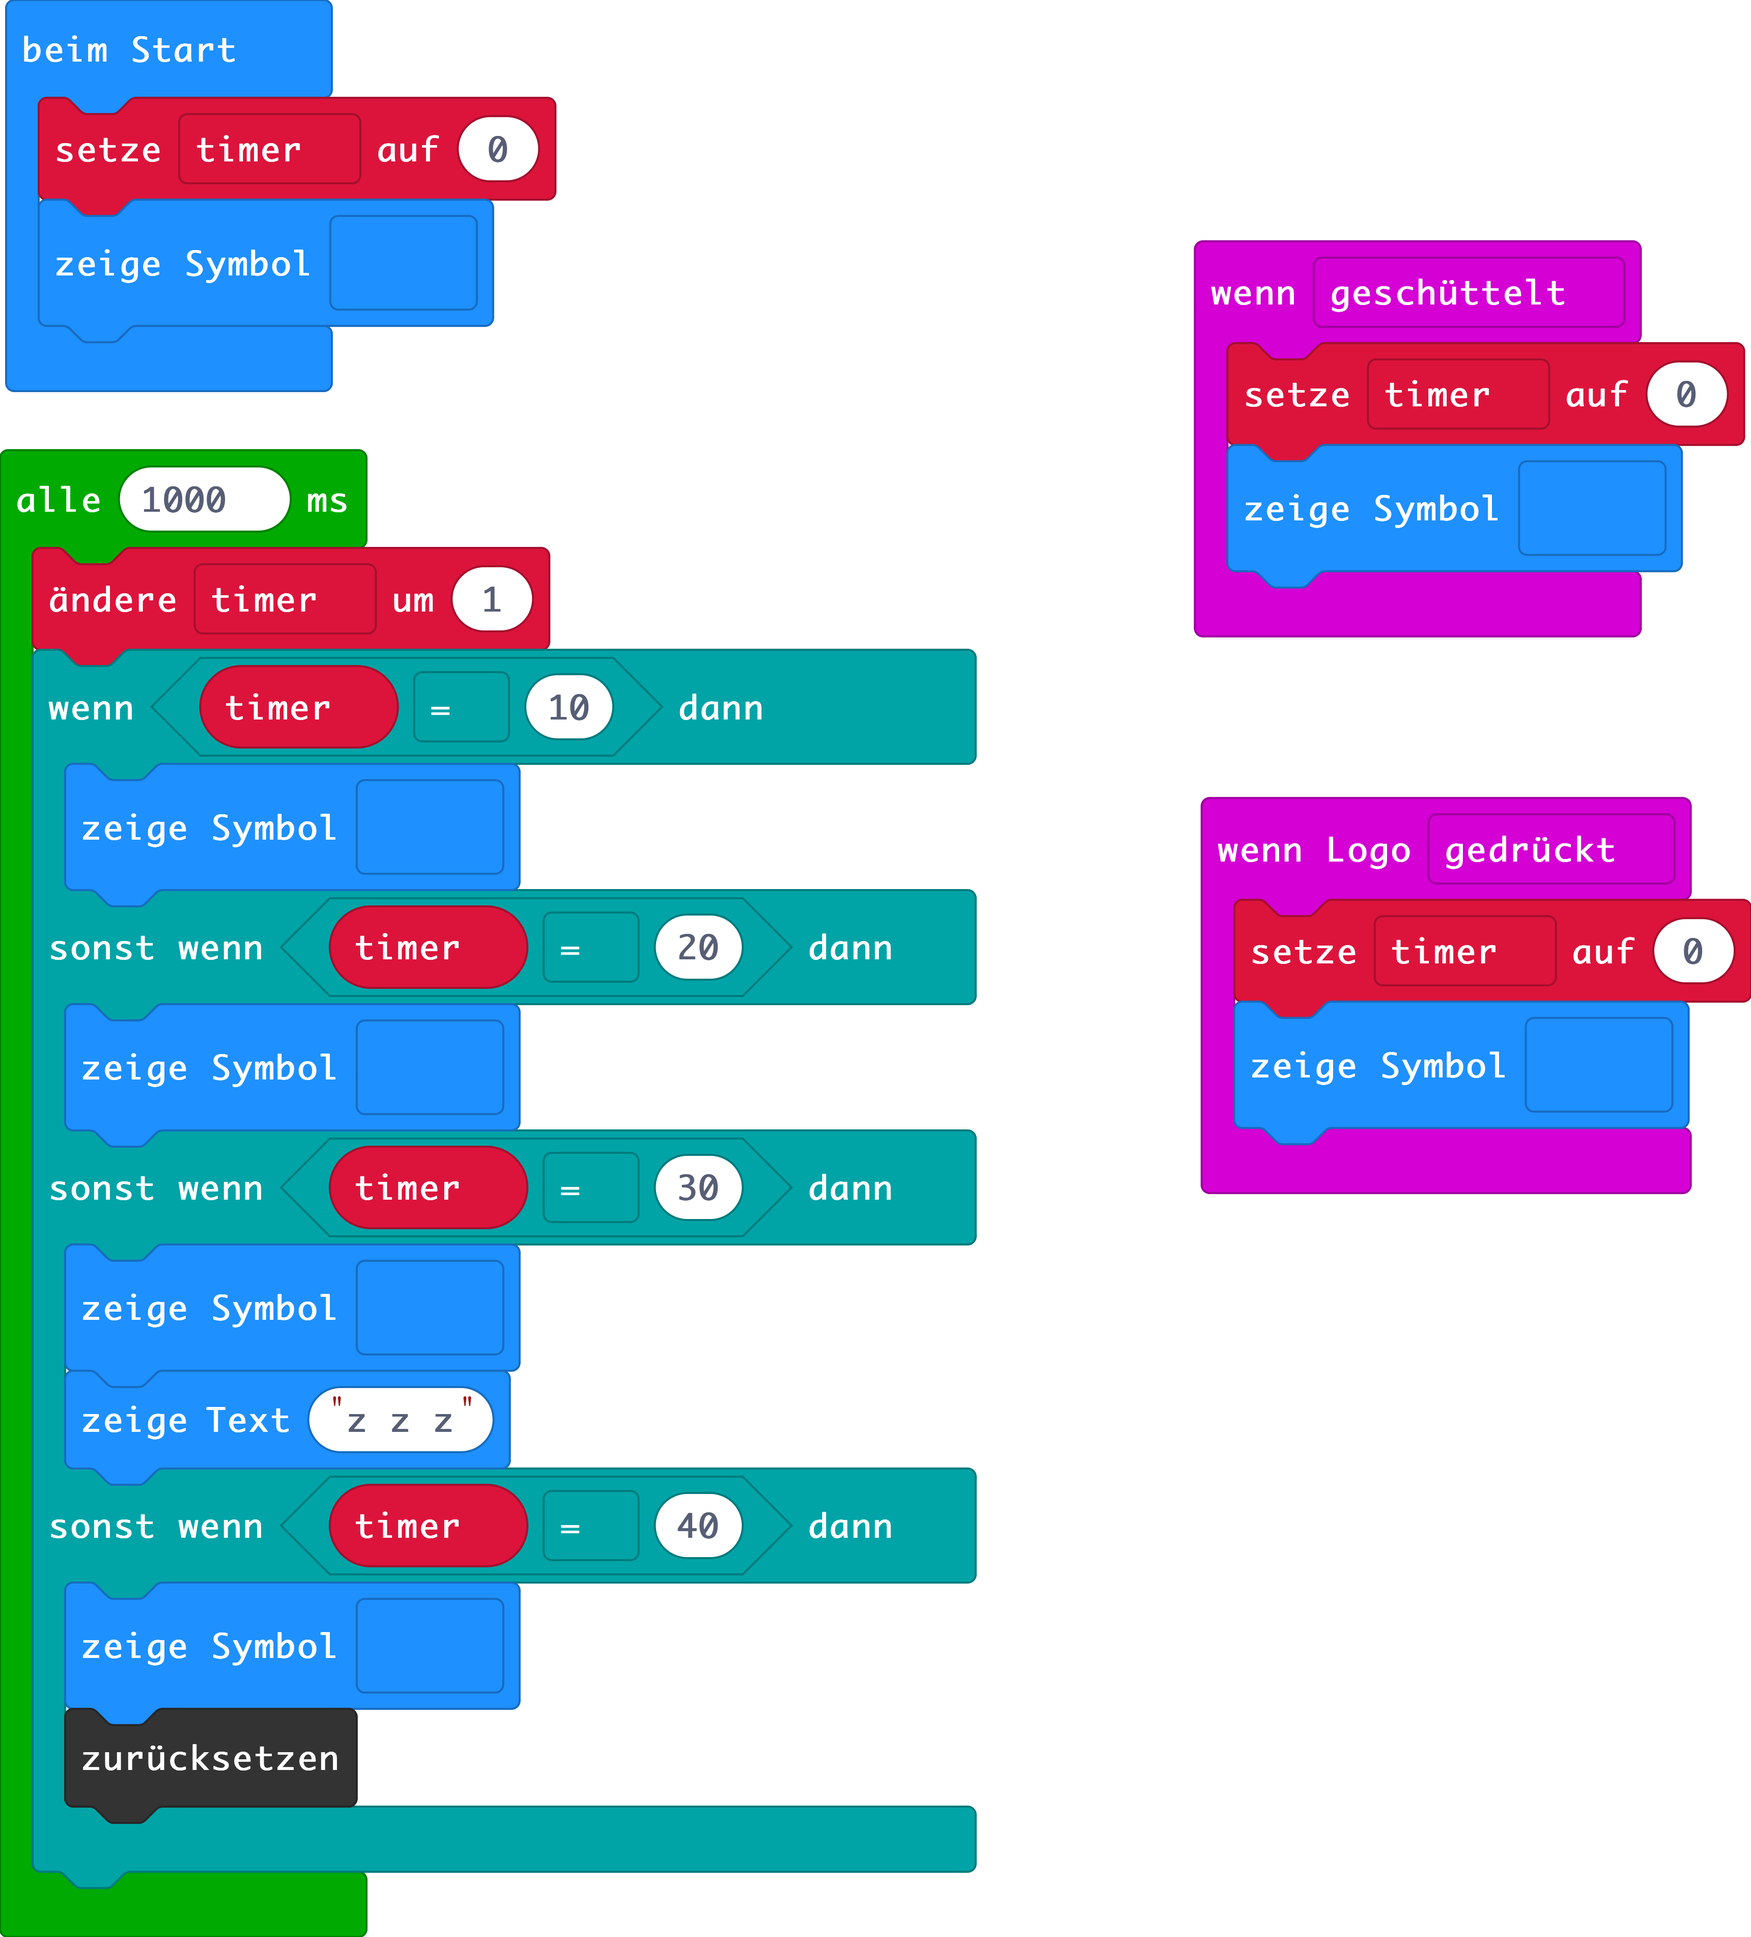
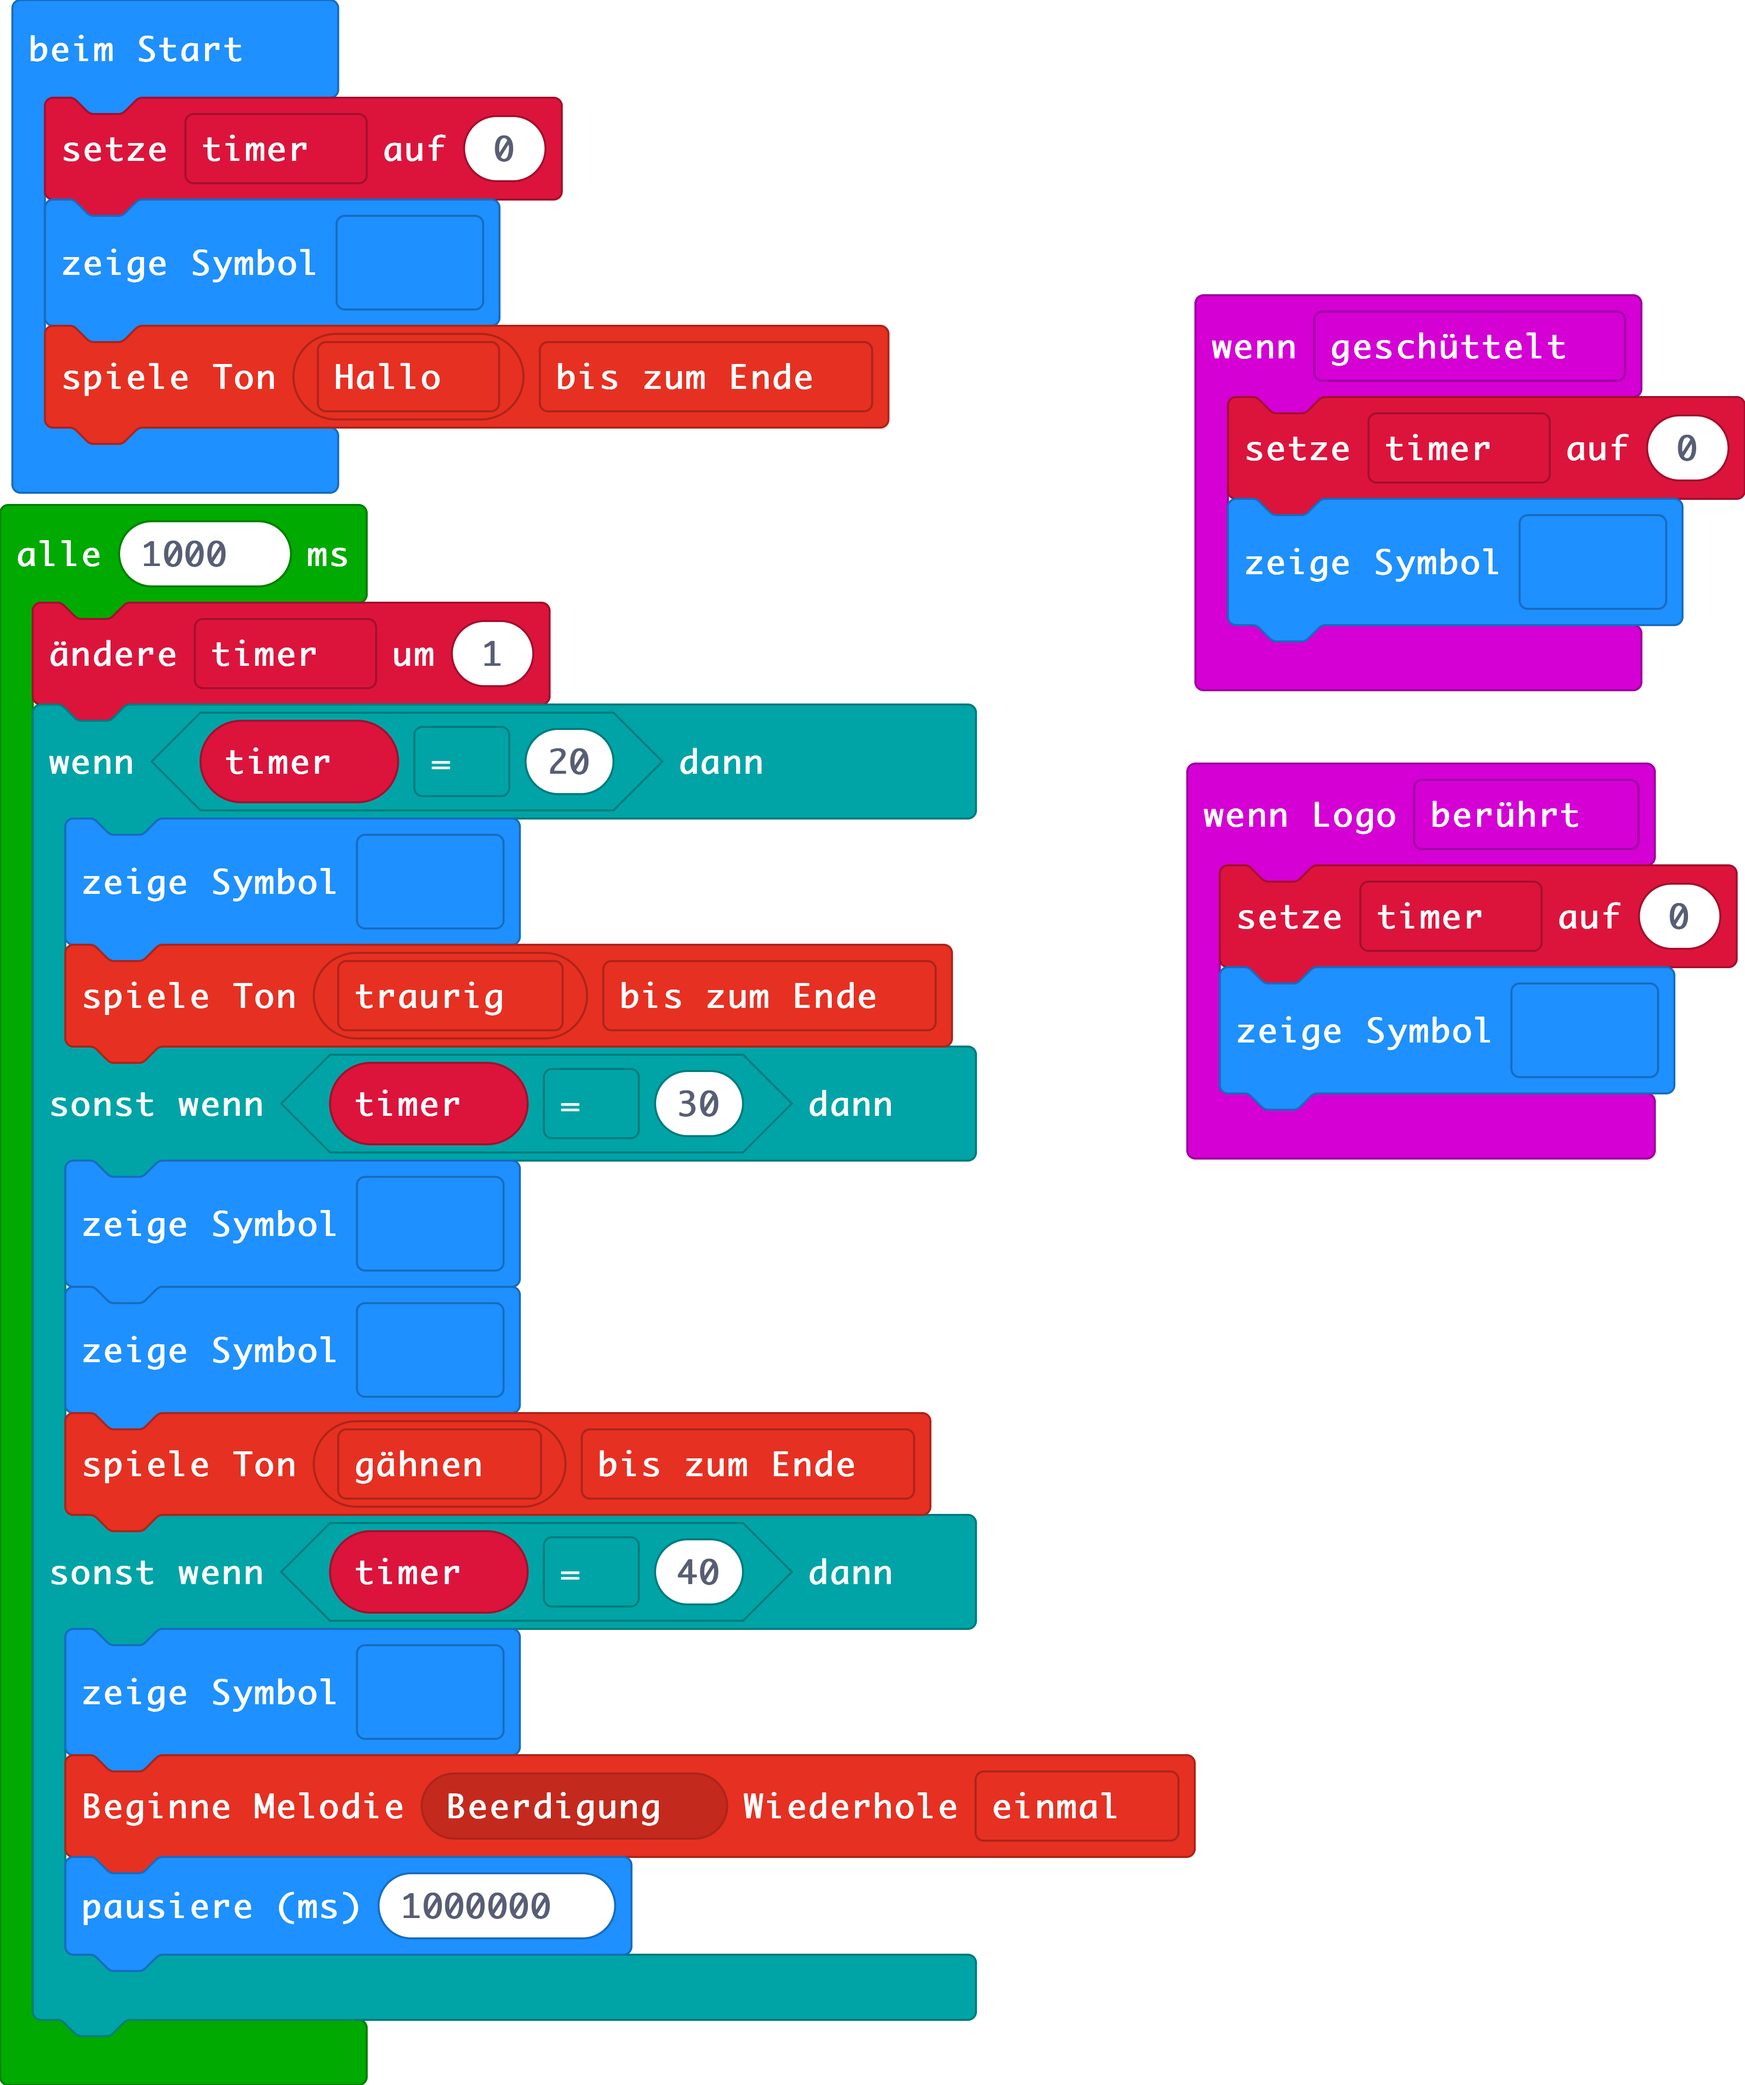
Tamagotchi mit Tutorial

diff --git a/VO-Teil-1/GrundkonzepteProgrammierung/Tamagotchi/Tutorial.md b/VO-Teil-1/GrundkonzepteProgrammierung/Tamagotchi/Tutorial.md
@@ -1,0 +1,178 @@
+# Tamagotchi
+
+## Situation @showdialog
+
+Bruno und Ksenia haben in der Wühlkiste ihres Vaters ein sonderbares Ei gefunden. Es hat einen kleinen Bildschirm und drei Knöpfe, in großen Buchstaben steht TAMAGOTCHI darauf.
+
+„Papa, was ist denn das?“, fragt Ksenia.
+„Oh, mein Tamagotchi!“, ruft dieser erstaunt. „Das war in den 90er-Jahren ein beliebtes Spielzeug, sozusagen ein virtuelles Haustier, um das man sich kümmern musste. Man konnte mit ihm spielen, es füttern und knuddeln. Wenn man es jedoch vernachlässigt hat, ist es traurig geworden und irgendwann gestorben. Ich habe auf meines aber immer sehr gut aufgepasst!“
+
+„Sowas möchte ich auch!”, ruft Bruno. „Leider ist die Batterie ausgelaufen.“
+Ksenia grübelt kurz und sagt: „Warte, ich habe doch den neuen BBC micro:bit V2, mit dem bauen wir unser eigenes Haustier! Wir nennen es Betty!“
+
+(Quelle für die Aufgabenstellung: https://microbit.eeducation.at/wiki/Tamagotchi)
+
+
+## Aufgabenstellung
+Was soll unser Tamagotchi-Nachbau alles können?
+
+- Wenn der BBC micro:bit V2 eingeschaltet wird, zeigt er ein neutrales Gesicht und spielt den Hallo-Sound ab.
+- In einer Dauerschleife (Dauerhaft-Schleife) wird der Timer jede Sekunde hinaufgezählt.
+- Nur wenn man mit Betty spielt (schüttelt) oder sie streichelt (das Logo streichelt) zeigt sie ein fröhliches Gesicht und der Timer wird auf 0 zurückgesetzt.
+- Wenn der Timer auf 20 steht, zeigt Betty ein trauriges Gesicht und macht ein trauriges Geräusch.
+- Wenn der Timer auf 30 steht, gähnt Betty und schläft ein.
+- Wenn der Timer auf 40 steht, wird ein trauriger Sound abgespielt und Betty stirbt.
+
+## Variable erstellen
+Erstelle eine ``||variables:Variable||`` mit dem Namen **timer**. 
+
+ ``||basic:beim Start||`` des Programms soll die Variable mit dem Wert 0 belegt werden (``||variables:setze timer auf 0||``).
+
+```blocks
+let timer = 0
+timer = 0
+```
+
+## Smiley anzeigen
+Mit ``||basic: zeige Symbol||`` wird ``||basic:beim Start||`` außerdem ein neutrales Gesicht angezeigt.
+
+```blocks
+let timer = 0
+timer = 0
+basic.showIcon(IconNames.Meh)
+```
+## Musik abspielen
+Es soll außerdem ``||basic:beim Start||`` ein Hallo-Sound  ``||music: spiele Ton Hallo bis zum Ende||`` abgespielt werden.
+
+```blocks
+let timer = 0
+timer = 0
+basic.showIcon(IconNames.Meh)
+music.playSoundEffect(music.builtinSoundEffect(soundExpression.hello), SoundExpressionPlayMode.UntilDone)
+```
+
+## Dauerschleife
+
+``||loops:Alle 1000 Millisekunden||`` soll der Timer um eins erhöht werden.
+
+```blocks
+loops.everyInterval(1000, function () {
+    timer += 1
+})
+```
+
+Dieser Block wird wie in einer Schleife immer wieder ausgeführt, wenn die eingestellte Zeit verstrichen ist.
+
+## Mit Betty spielen
+Wenn wir mit Betty spielen (``||input: wenn geschüttelt||``), zeigt sie ein fröhliches Gesicht und der Timer wird auf 0 zurückgesetzt.
+
+```blocks
+input.onGesture(Gesture.Shake, function () {
+    timer = 0
+    basic.showIcon(IconNames.Happy)
+})
+
+```
+
+## Betty streicheln
+Auch wenn wir Betty streicheln (``||input: wenn Logo berührt||``), zeigt sie ein fröhliches Gesicht und der Timer wird auf 0 zurückgesetzt.
+
+```blocks
+input.onLogoEvent(TouchButtonEvent.Touched, function () {
+    timer = 0
+    basic.showIcon(IconNames.Happy)
+})
+```
+
+## Betty wird traurig
+Wenn die Variable ``||variables: timer||`` den Wert 20 enthält, zeigt Betty ein trauriges Gesicht und macht ein trauriges Geräusch (``||music:spiele Ton traurig bis zum Ende||``).
+
+Verwende den Logikblock ``||logic: Wenn||`` und eine ``||logic: Bedingung||``, die prüft, ob der Timerwert gleich 20 ist. Platziere alles im Block, der alle 1000 Millisekunden gestartet wird.
+```blocks
+loops.everyInterval(1000, function () {
+    timer += 1
+    if (timer == 20) {
+        basic.showIcon(IconNames.Sad)
+        music.playSoundEffect(music.builtinSoundEffect(soundExpression.sad), SoundExpressionPlayMode.UntilDone)
+    }
+})
+```
+
+## Betty schläft ein
+Wenn ``||variables: timer||`` auf 30 steht, gähnt Betty und schläft ein.
+
+Verwende das Plus-Zeichen im ``||logic: Wenn||``-Block um einen weiteren ``||logic: sonst wenn||``-Zweig mit einer weiteren ``||logic: Bedingung||`` hinzuzufügen.
+
+```blocks
+loops.everyInterval(1000, function () {
+    timer += 1
+    if (timer == 20) {
+        basic.showIcon(IconNames.Sad)
+        music.playSoundEffect(music.builtinSoundEffect(soundExpression.sad), SoundExpressionPlayMode.UntilDone)
+    } else if (timer == 30) {
+        basic.showIcon(IconNames.Surprised)
+        basic.showIcon(IconNames.Asleep)
+        music.playSoundEffect(music.builtinSoundEffect(soundExpression.yawn), SoundExpressionPlayMode.UntilDone)
+    } 
+})
+```
+Wenn die erste Bedingung (timer == 20) zutrifft, dann wird der Block dazu ausgeführt. Falls die erste Bedingung nicht zutrifft, wird die zweite Bedingung überprüft und - falls diese zutrifft - der zugehörige Block ausgeführt, usw.
+
+## Betty stirbt
+
+Wenn ``||variables: timer||`` auf 40 steht, wird ein trauriger Sound abgespielt (``||music:beginne Melodie Beerdingung wiederhole einmal||``) und Betty stirbt (``||basic: Pausiere eine lange Zeit||``).
+
+Jetzt kann man Betty nur noch durch einen Reset / Neustart zum Leben erwecken.
+
+```blocks
+loops.everyInterval(1000, function () {
+    timer += 1
+    if (timer == 20) {
+        basic.showIcon(IconNames.Sad)
+        music.playSoundEffect(music.builtinSoundEffect(soundExpression.sad), SoundExpressionPlayMode.UntilDone)
+    } else if (timer == 30) {
+        basic.showIcon(IconNames.Surprised)
+        basic.showIcon(IconNames.Asleep)
+        music.playSoundEffect(music.builtinSoundEffect(soundExpression.yawn), SoundExpressionPlayMode.UntilDone)
+    } else if (timer == 40) {
+        basic.showIcon(IconNames.Skull)
+        music.startMelody(music.builtInMelody(Melodies.Funeral), MelodyOptions.Once)
+        basic.pause(1000000)
+    }
+})
+```
+
+## Fertiger Code 
+Hier nochmals der fertige Code ...
+```blocks
+input.onLogoEvent(TouchButtonEvent.Touched, function () {
+    timer = 0
+    basic.showIcon(IconNames.Happy)
+})
+input.onGesture(Gesture.Shake, function () {
+    timer = 0
+    basic.showIcon(IconNames.Happy)
+})
+let timer = 0
+timer = 0
+basic.showIcon(IconNames.Meh)
+music.playSoundEffect(music.builtinSoundEffect(soundExpression.hello), SoundExpressionPlayMode.UntilDone)
+loops.everyInterval(1000, function () {
+    timer += 1
+    if (timer == 20) {
+        basic.showIcon(IconNames.Sad)
+        music.playSoundEffect(music.builtinSoundEffect(soundExpression.sad), SoundExpressionPlayMode.UntilDone)
+    } else if (timer == 30) {
+        basic.showIcon(IconNames.Surprised)
+        basic.showIcon(IconNames.Asleep)
+        music.playSoundEffect(music.builtinSoundEffect(soundExpression.yawn), SoundExpressionPlayMode.UntilDone)
+    } else if (timer == 40) {
+        basic.showIcon(IconNames.Skull)
+        music.startMelody(music.builtInMelody(Melodies.Funeral), MelodyOptions.Once)
+        control.reset()
+    }
+})
+```
+
+## Gratulation @showdialog
+Gratulation, du hast das dein eigenes Tamagotchi programmiert! Lade es nun auf deinen micro:bit Microcontroller und teste es aus!

diff --git a/VO-Teil-1/GrundkonzepteProgrammierung/Tamagotchi/README.md b/VO-Teil-1/GrundkonzepteProgrammierung/Tamagotchi/README.md
@@ -1,20 +1,19 @@
 # Tamagotchi ePet
 
-
 ## Aufgabe für micro:bit
 
 ![](./bilder/tamagotchiMicrobitAufgabe.png)
 (Quelle: Denken lernen -Probleme lösen mit BBC micro:bit V1 + V2, S. 73 - S. 74, https://microbit.eeducation.at/images/c/c7/Buch_microbit_sek_i-Auflage_2022_20220905_30MB.pdf)
 
-### Implementierung
+### Implementierung micro:bit
 ![](./bilder/tamagotchiMicrobitLoesung.png)
 
 ```python
-def on_logo_pressed():
+def on_logo_touched():
     global timer
     timer = 0
     basic.show_icon(IconNames.HAPPY)
-input.on_logo_event(TouchButtonEvent.PRESSED, on_logo_pressed)
+input.on_logo_event(TouchButtonEvent.TOUCHED, on_logo_touched)
 
 def on_gesture_shake():
     global timer
@@ -24,24 +23,53 @@ input.on_gesture(Gesture.SHAKE, on_gesture_shake)
 
 timer = 0
 timer = 0
-basic.show_icon(IconNames.ASLEEP)
+basic.show_icon(IconNames.MEH)
+music.play_sound_effect(music.builtin_sound_effect(soundExpression.hello),
+    SoundExpressionPlayMode.UNTIL_DONE)
 
 def on_every_interval():
     global timer
     timer += 1
-    if timer == 10:
-        basic.show_icon(IconNames.ASLEEP)
-    elif timer == 20:
+    if timer == 20:
         basic.show_icon(IconNames.SAD)
+        music.play_sound_effect(music.builtin_sound_effect(soundExpression.sad),
+            SoundExpressionPlayMode.UNTIL_DONE)
     elif timer == 30:
         basic.show_icon(IconNames.SURPRISED)
-        basic.show_string("z z z")
+        basic.show_icon(IconNames.ASLEEP)
+        music.play_sound_effect(music.builtin_sound_effect(soundExpression.yawn),
+            SoundExpressionPlayMode.UNTIL_DONE)
     elif timer == 40:
         basic.show_icon(IconNames.SKULL)
-        control.reset()
+        music.start_melody(music.built_in_melody(Melodies.FUNERAL), MelodyOptions.ONCE)
+        basic.pause(1000000)
 loops.every_interval(1000, on_every_interval)
-
 ```
+
+
+## Tamagotchi-Tutorial
+
+### MakeCode Tutorial Editor
+Auf der Microsoft MakeCode Plattform können auch sehr einfach Selbstlern-Tutorials für den Unterricht erstellt und geteilt werden.
+
+Das Tool selbst ist erreichbar über: https://makecode.com/tutorial-tool
+
+Über Markdown können die Tutorials geschrieben werden.
+
+Beispiele für Tutorials finden sich z.B. auf:
+
+- Flasing-Hearts: https://github.com/Microsoft/pxt-microbit/blob/master/docs/projects/flashing-heart.md
+- Schere-Stein-Papier: https://github.com/Microsoft/pxt-microbit/blob/master/docs/projects/rock-paper-scissors.md
+- https://github.com/Microsoft/pxt-microbit/tree/master/docs/projects
+
+Wenn ein Tutorial über den Editor erstellt wurde, kann über den Teilen-Button ein Link erzeugt werden, der zum Teilen des Tutorials im Unterricht verwendet werden kann. 
+
+Weder zum Erstellen noch zum Teilen der Tutorials ist keine Anmeldung nötig. Es ist allerdings ratsam, sich den Markdown-Code für das Tutorials abzuspeichern (falls später Änderungen platziert werden müssen oder der Tutorial-Link aus irgendeinem Grund später einmal nicht mehr funktionieren sollte).
+### Tamagotchi-Tutorial
+Für das Tamagotchi Beispiel wurde ein Tutorial zum Ausprobieren erstellt.
+
+- Markdown-Code für das Tutorial: [Tutorial.md](Tutorial.md)
+- Link auf das geteilte Tutorial zum Ausprobieren: https://makecode.microbit.org/#tutorial:71416-94855-77441-69581
 
 ## Komplexere Version für Python (ohne micro:bit)
 
